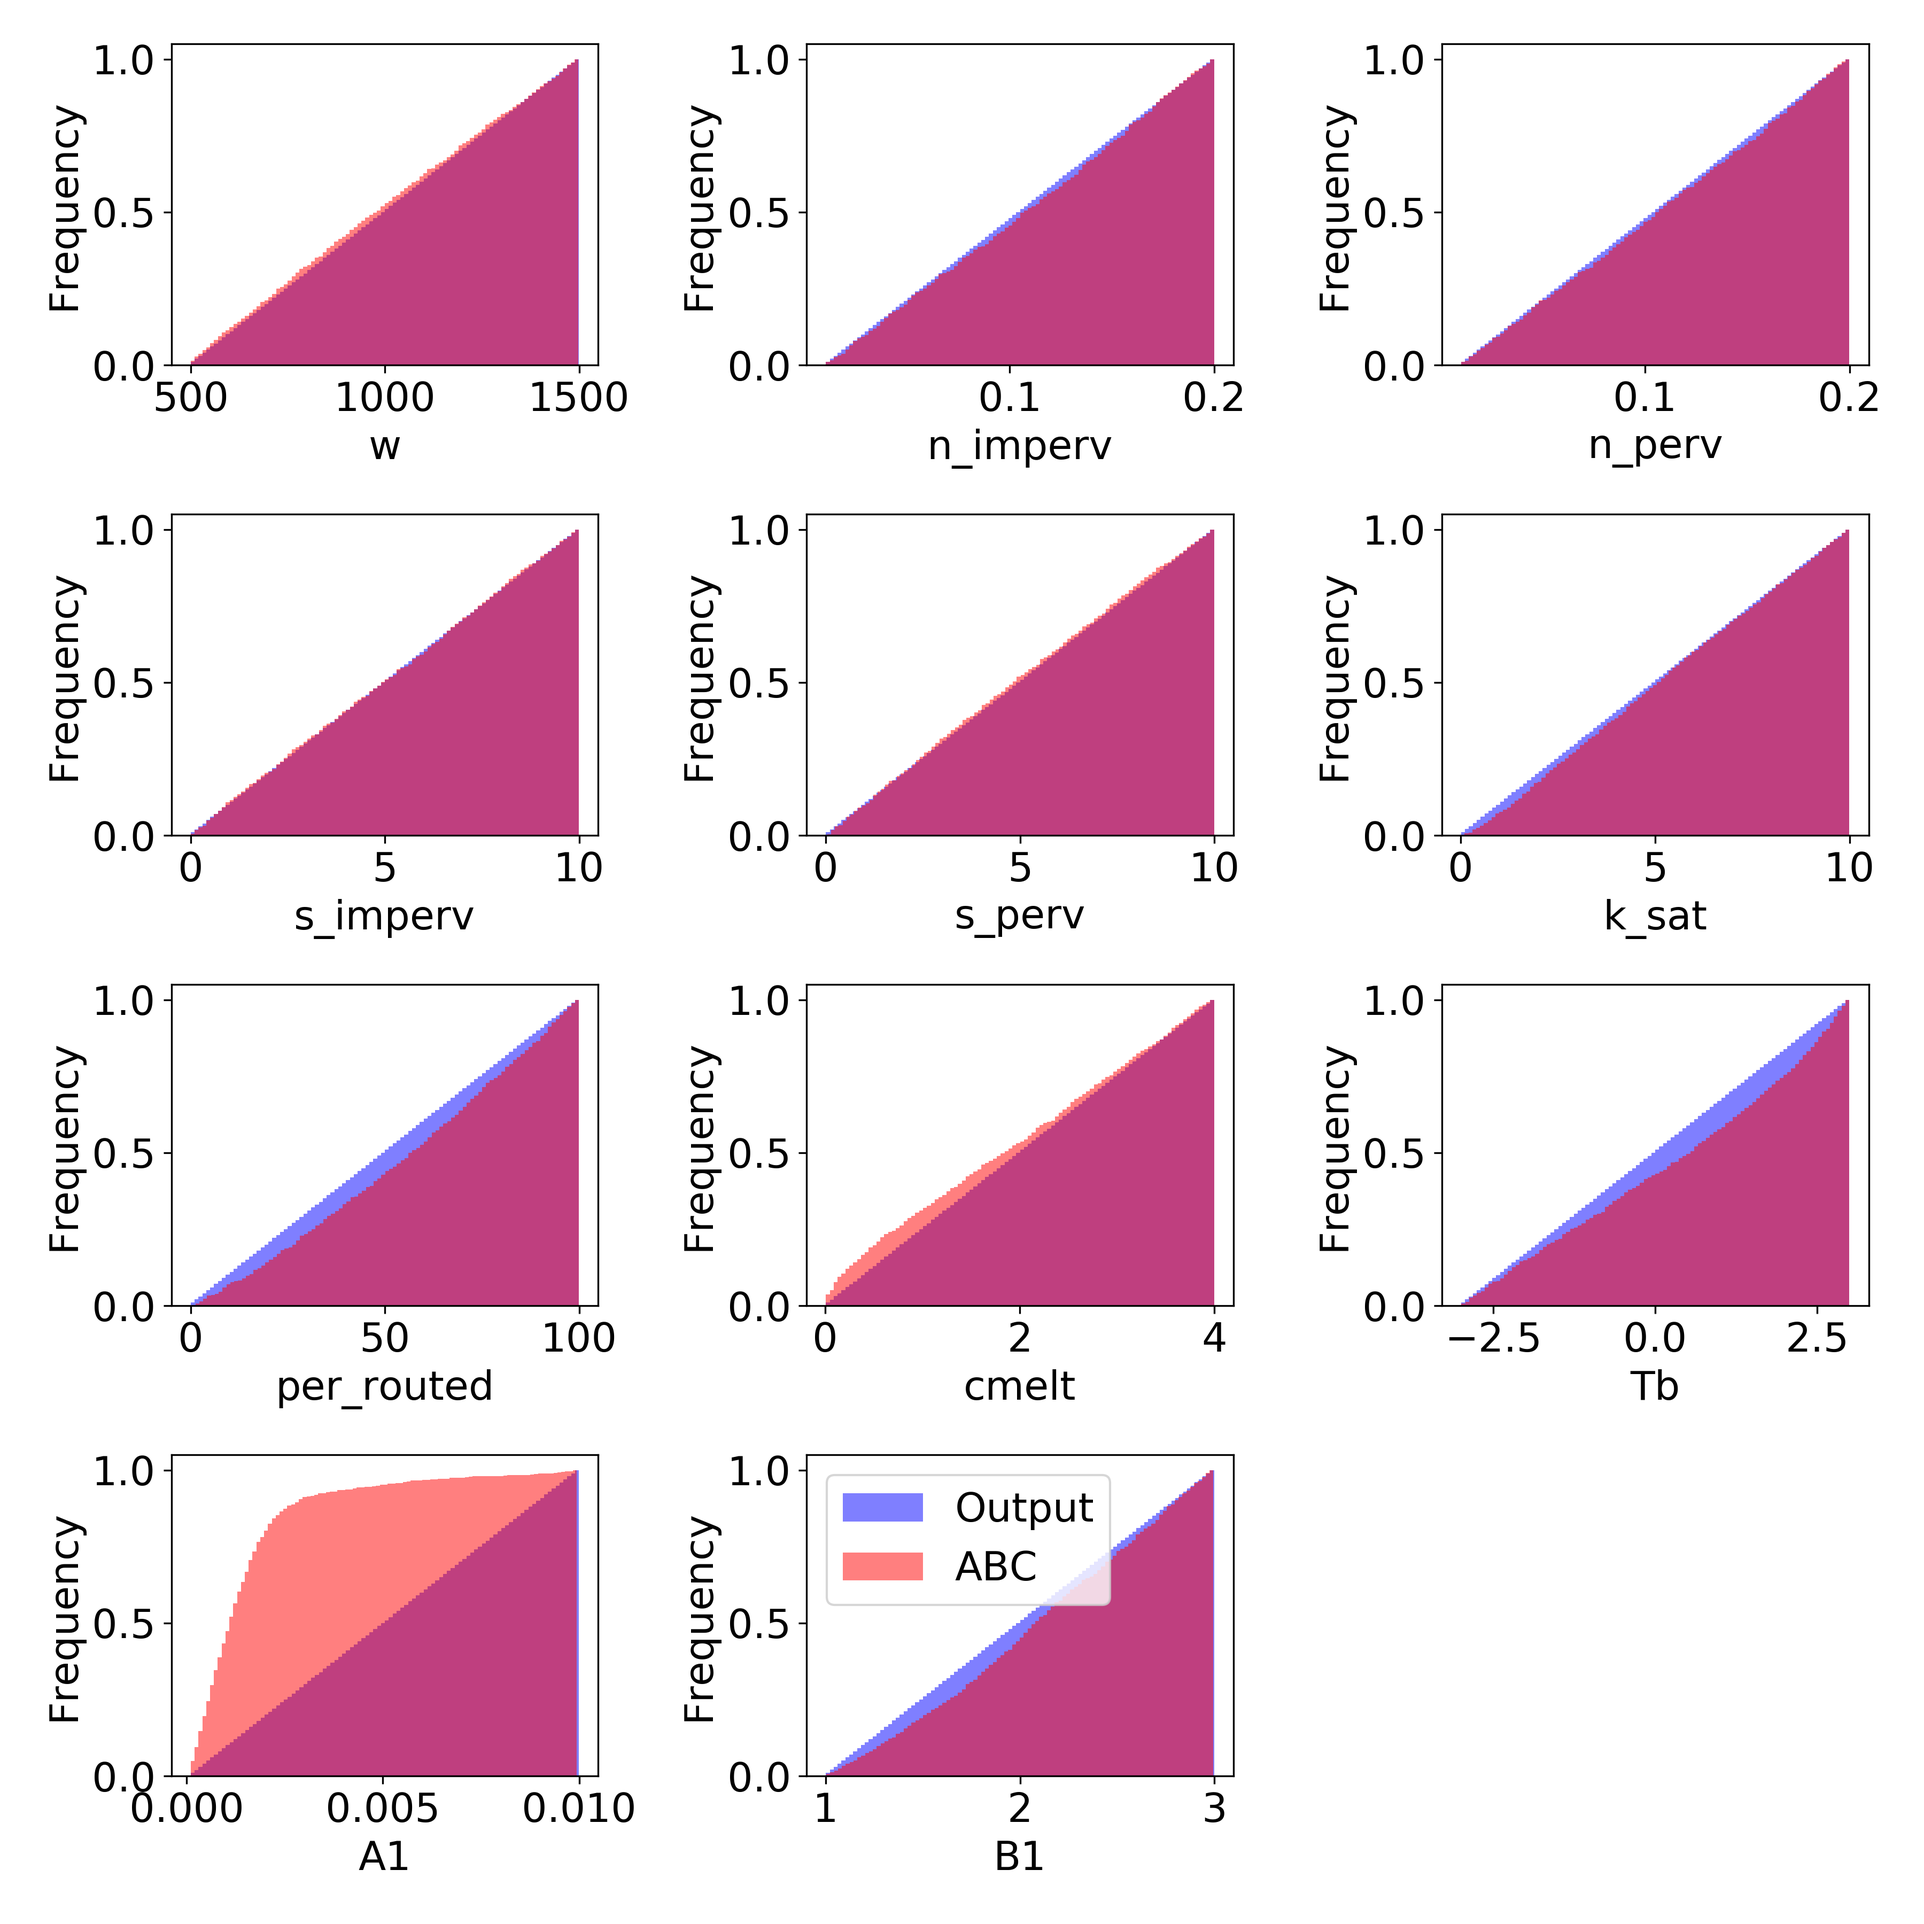
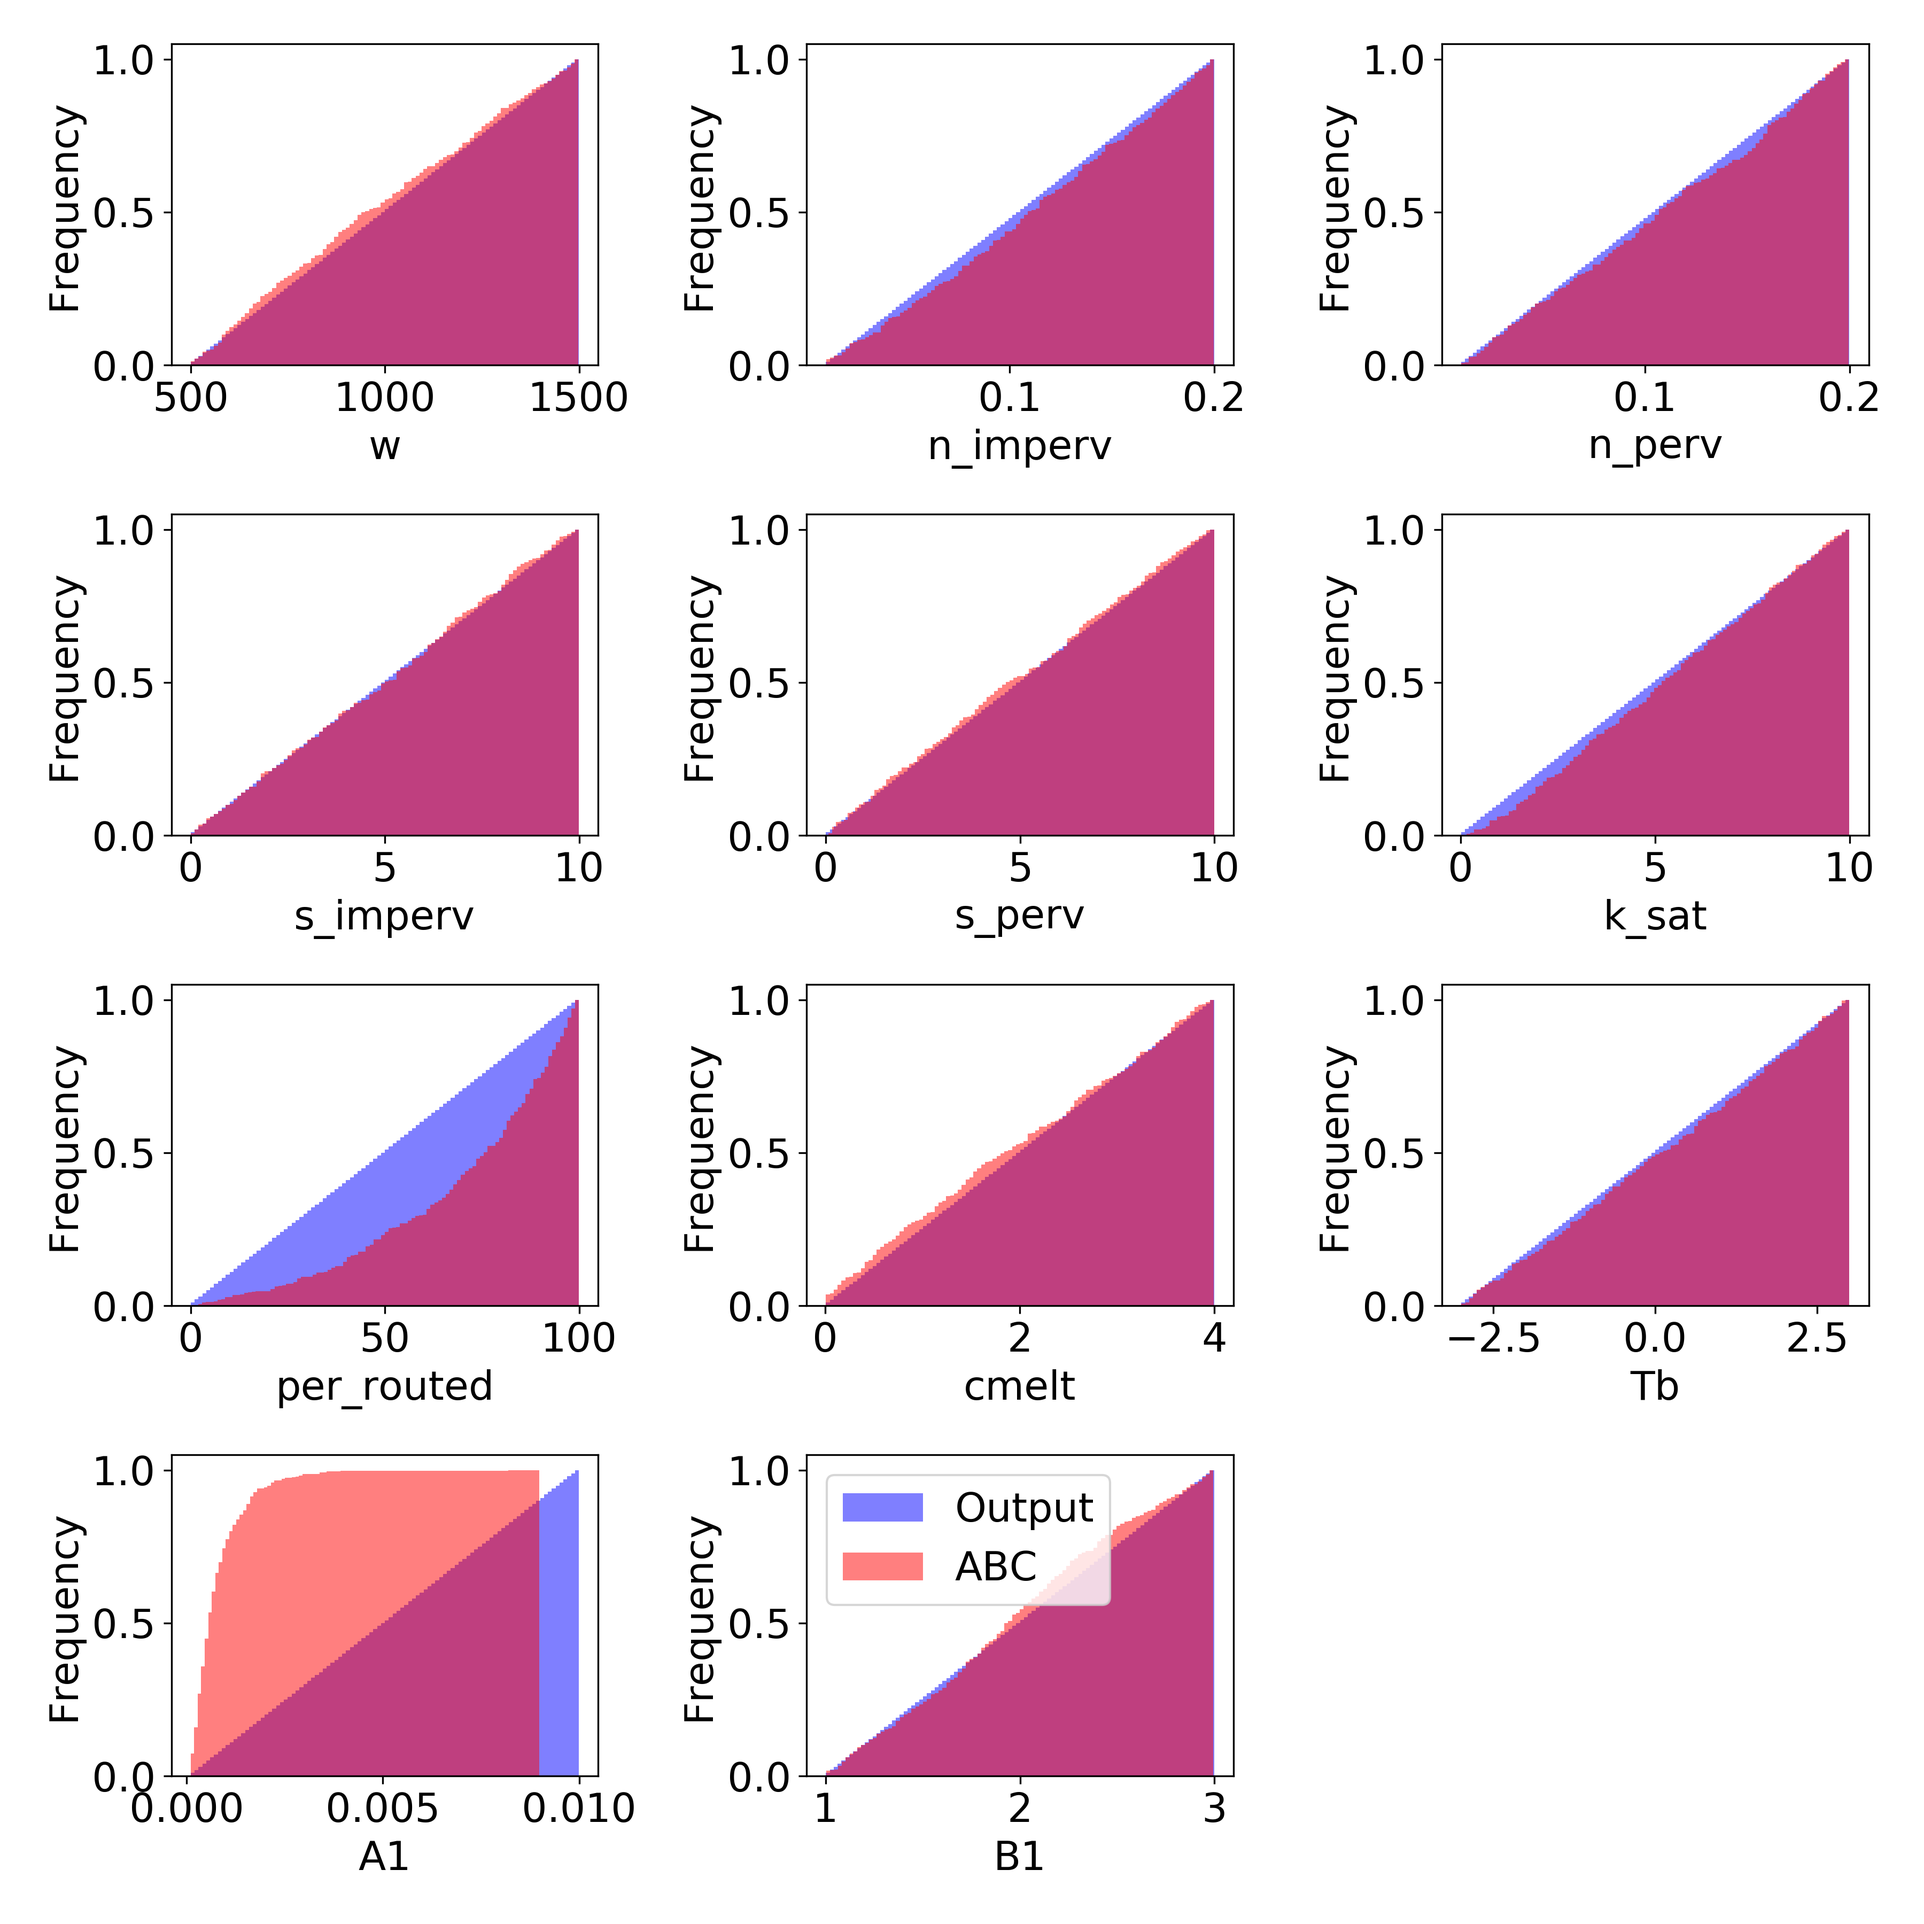
updated figs

diff --git a/SWMM/approx_bayes_calc_of_defined.py b/SWMM/approx_bayes_calc_of_defined.py
@@ -88,8 +88,8 @@ def runABC(df_parms,df_OFs,runs,bins,color1,color2):
     
     print('precent of models with',str(-tolerance_pbias),'<= p-bias >=',str(tolerance_pbias),'are:',str(len(results_pbias)/runs),'%')
     make_histograms(df_parms,bayes_approx_pbias,bins,0.5,color1,color3,parameters,'pbias')
-    make_cdfs_pdfs(df_parms,bayes_approx_nse,bins,0.5,color1,color3,parameters,'pbias')
+    make_cdfs_pdfs(df_parms,bayes_approx_pbias,bins,0.5,color1,color3,parameters,'pbias')
     
     print('precent of models with RMSE < to',str(tolerance_rmse),'are:',str(len(results_rmse)/runs),'%')
     make_histograms(df_parms,bayes_approx_rmse,bins,0.5,color1,color4,parameters,'RMSE')
-    make_cdfs_pdfs(df_parms,bayes_approx_nse,bins,0.5,color1,color4,parameters,'RMSE')
+    make_cdfs_pdfs(df_parms,bayes_approx_rmse,bins,0.5,color1,color4,parameters,'RMSE')
